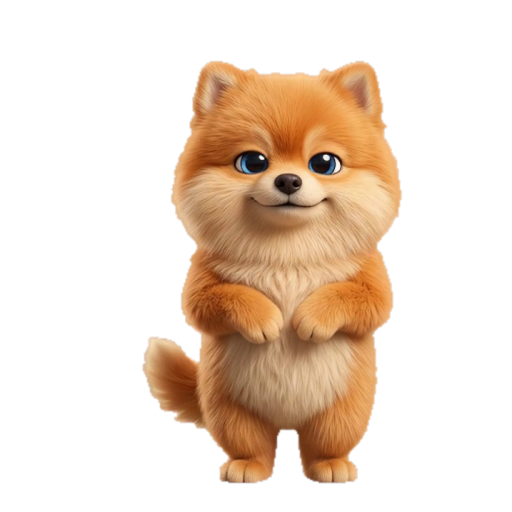
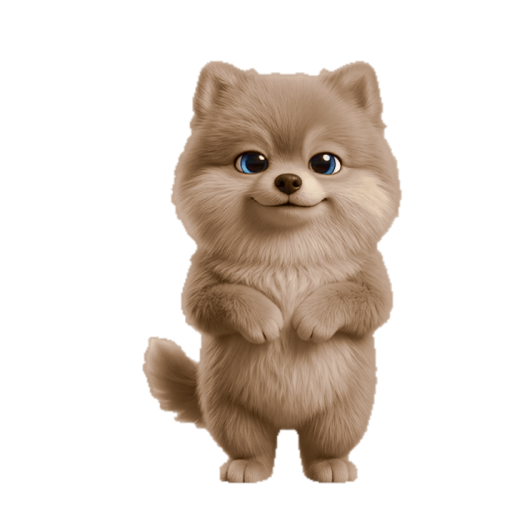
mobile: модели собачки под текущую схему папок, без правок кода
Окраски по имени папки как у кота: v1 «Шоколад» → dog_ginger_*,
v2 «Карамель» → dog_gray_*, v3 «Уголёк» → dog_black_*.
Правки PetAssets и PetView убраны — код не меняется.

Changed region(s): [[0.2812, 0.0938, 0.7812, 0.9375]]

diff --git a/mobile/lib/pet/pet_view.dart b/mobile/lib/pet/pet_view.dart
@@ -254,22 +254,17 @@ class _PetViewState extends State<PetView> with SingleTickerProviderStateMixin {
 
   PetClip? _clip(String? state) => state == null ? null : _info?.clips[state];
 
-  /// Ролик, который реально сыграет: если [state] у питомца нет
-  /// (например, hungry у взрослой собаки) — idle.
-  String _playable(String state) =>
-      _clip(state) != null ? state : widget.controller.idleState;
-
   void _onWanted() {
     final c = widget.controller;
-    if (_playable(c.wanted) == _state) return;
+    if (c.wanted == _state) return;
     if (c.immediate || _codec == null || _calm) _switchTo(c.wanted);
     // Иначе переключимся в ближайшей точке склейки (_onTick).
   }
 
   Future<void> _switchTo(String state) async {
-    final name = _playable(state);
-    final clip = _clip(name);
+    final clip = _clip(state) ?? _clip(widget.controller.idleState);
     if (clip == null) return;
+    final name = _clip(state) != null ? state : widget.controller.idleState;
     final gen = _generation;
     _state = name;
     _frame = 0;
@@ -331,13 +326,12 @@ class _PetViewState extends State<PetView> with SingleTickerProviderStateMixin {
     final c = widget.controller;
 
     // Разовый ролик доиграл — назад к циклу.
-    final want = _playable(c.wanted);
-    if (wrapped && _state != _playable(c.loopState) && _state == want) {
+    if (wrapped && _state != c.loopState && _state == c.wanted) {
       c._finishOnce();
       return; // _onWanted уже переключил или переключит на склейке
     }
     final nextFrame = wrapped ? 0 : next;
-    if (want != _state && (wrapped || clip.cuts.contains(nextFrame))) {
+    if (c.wanted != _state && (wrapped || clip.cuts.contains(nextFrame))) {
       _switchTo(c.wanted);
       return;
     }

diff --git a/mobile/lib/services/pet_assets.dart b/mobile/lib/services/pet_assets.dart
@@ -68,19 +68,10 @@ class PetAssets {
   static String folder(PetType type, String look) =>
       'assets/pets/${type.name}/$look';
 
-  /// Окраска в имени папки модели — своя у каждого вида
-  /// (порядок как в PetLook: у собаки v1 «Шоколад», v2 «Карамель»).
   static const _colorNames = {
-    PetType.cat: {
-      PetVariant.v1: 'ginger',
-      PetVariant.v2: 'gray',
-      PetVariant.v3: 'black',
-    },
-    PetType.dog: {
-      PetVariant.v1: 'brown',
-      PetVariant.v2: 'ginger',
-      PetVariant.v3: 'black',
-    },
+    PetVariant.v1: 'ginger',
+    PetVariant.v2: 'gray',
+    PetVariant.v3: 'black',
   };
 
   static const _ageNames = {
@@ -93,9 +84,7 @@ class PetAssets {
   /// `assets/pets/<вид>_<окраска>_<возраст>/` (ролики, постеры, pet.json).
   /// null — модели для этой окраски и этапа ещё нет.
   static String? modelFolder(PetType type, PetVariant variant, int level) {
-    final color = _colorNames[type]?[variant];
-    if (color == null) return null;
-    final dir = 'assets/pets/${type.name}_${color}_'
+    final dir = 'assets/pets/${type.name}_${_colorNames[variant]}_'
         '${_ageNames[stageKey(level)]}';
     return _available.contains('$dir/pet.json') ? dir : null;
   }
